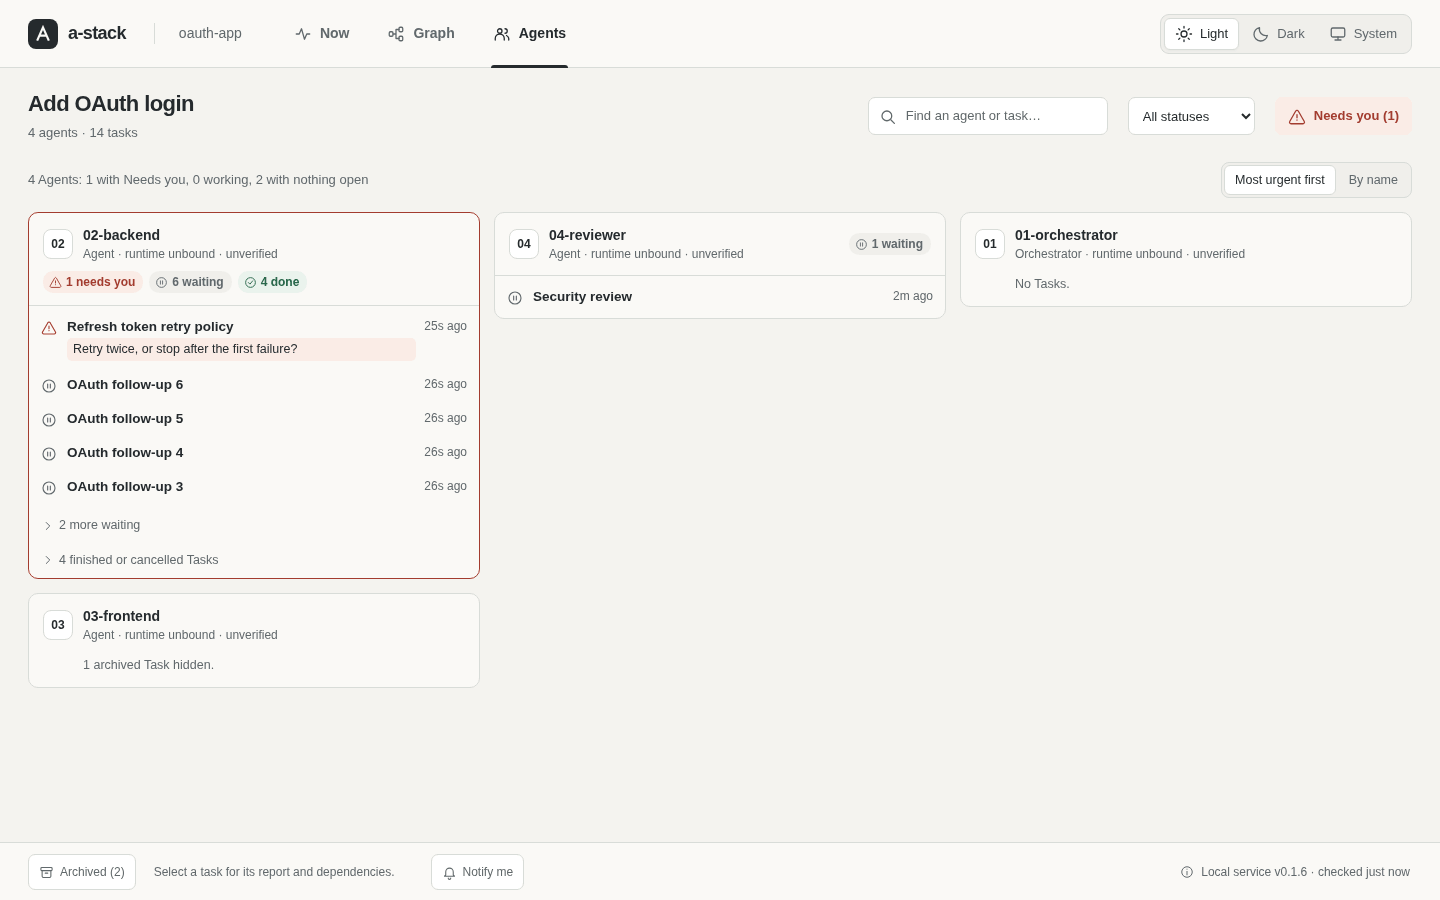
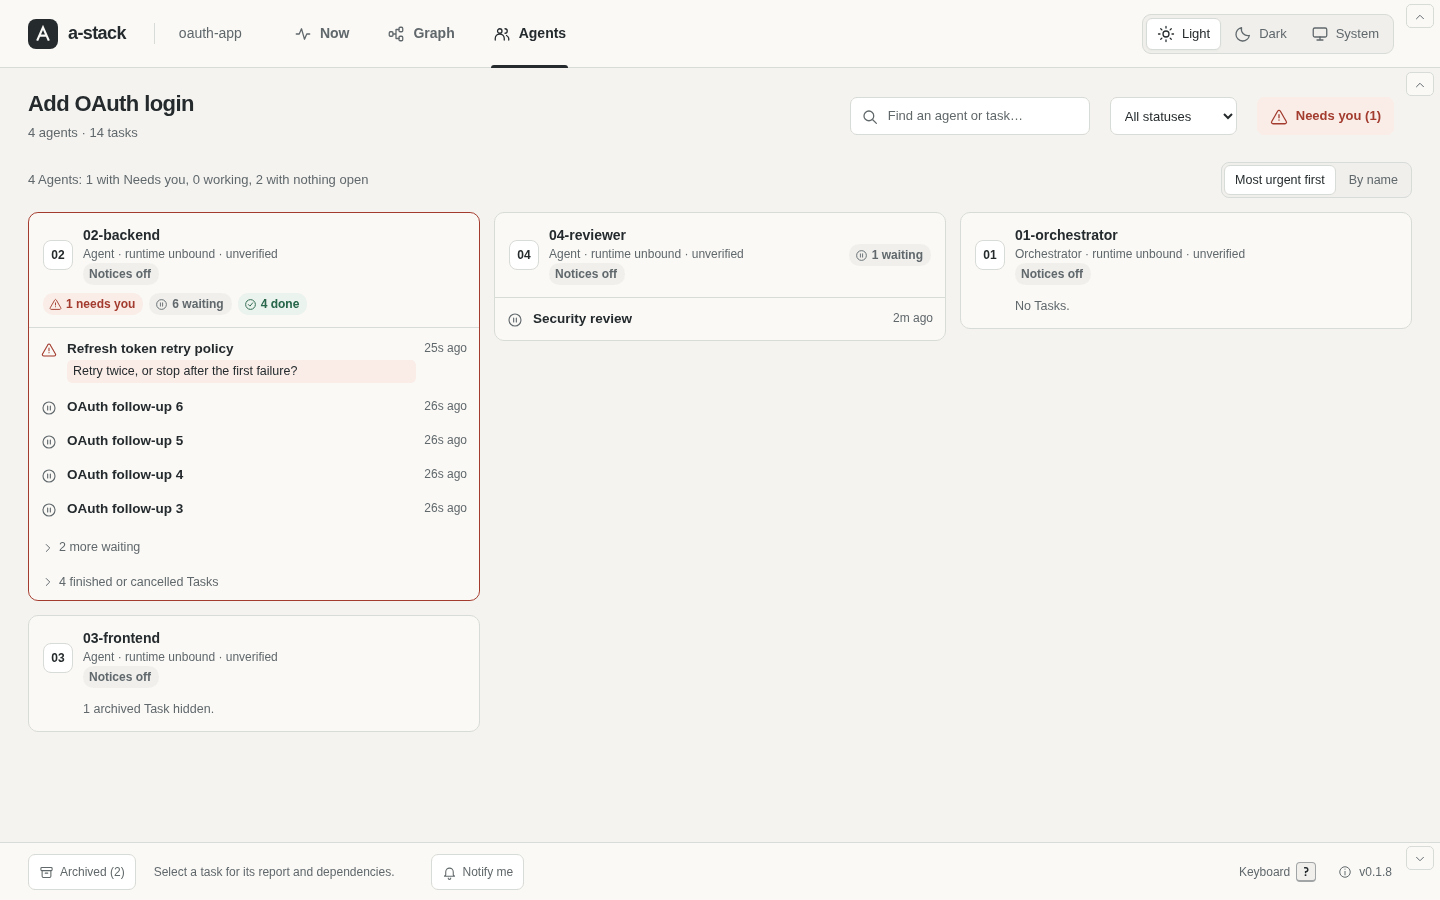
docs: record the v0.1.8 demo

diff --git a/CONTRIBUTING.md b/CONTRIBUTING.md
@@ -68,4 +68,4 @@ After a change to the browser view or the Operator commands, record the README d
 scripts/record-demo.sh
 ```
 
-The script builds a-stack and runs a short Session on a temporary service, with a temporary HOME, explicit disposable state and private hook settings/cache. It records one story: a real terminal (`scripts/demo-terminal.py`) and the browser view (agent-browser) at the same time. Terminal helpers shorten mutation receipts and show only the first line of a Stop guard’s reason; the hook events, replies and Task changes are real. `scripts/demo-overlay.js` draws the outlines and callouts and zooms in, in the recording browser only. Then it cuts the scenes into GIFs, each scene under its caption. To keep the GIFs small at the same pace, it drops frames that do not change and shows the one before longer, keeps every third frame while the view zooms or scrolls, and uses 64 colors and gifsicle's `-O3 --lossy=40`. The footer of the view shows the latest release tag (`git describe --tags --abbrev=0`), not the development build. The scene list at the top of the script names the GIF, the tab, the terminal and the caption of each scene. To try a change without touching the images, set `DEMO_OUT` to another folder. In `docs/images` it writes `demo.gif` (the README tour), `demo-graph.gif`, `demo-archive.gif` and `demo-agents.gif` (the clips in the browser view guide), the stills `graph-light.png`, `graph-dark.png`, `graph-overview.png` (minimap and semantic zoom), `now-light.png`, `now-dark.png`, `mail-light.png`, `mail-dark.png` and `agents.png`, and `picker.png`. It deletes the temporary state when it ends. It needs Go, Python 3, ffmpeg, agent-browser, ImageMagick (`magick`), gifsicle and curl. It downloads a pinned release of [agg](https://github.com/asciinema/agg) into `.tmp/` and checks its SHA-256. It does not need Docker.
+The script builds a-stack and runs a short Session on a temporary service, with a temporary HOME, explicit disposable state and private hook settings/cache. It records one story: a real terminal (`scripts/demo-terminal.py`) and the browser view (agent-browser) at the same time. Terminal helpers shorten mutation receipts and show only the first line of a Stop guard’s reason; the hook events, replies and Task changes are real. `scripts/demo-overlay.js` draws the outlines and callouts and zooms in, in the recording browser only. Then it cuts the scenes into GIFs, each scene under its caption. To keep the GIFs small at the same pace, it drops frames that do not change and shows the one before longer, keeps every third frame while the view zooms or scrolls, and uses 64 colors and gifsicle's `-O3 --lossy=40`. The footer of the view shows the latest release tag (`git describe --tags --abbrev=0`), not the development build. Before the next tag exists, override it with `DEMO_VERSION=v0.1.8 scripts/record-demo.sh`. The scene list at the top of the script names the GIF, the tab, the terminal and the caption of each scene. To try a change without touching the images, set `DEMO_OUT` to another folder. In `docs/images` it writes `demo.gif` (the README tour), `demo-graph.gif`, `demo-archive.gif` and `demo-agents.gif` (the clips in the browser view guide), the stills `graph-light.png`, `graph-dark.png`, `graph-overview.png` (minimap and semantic zoom), `now-light.png`, `now-dark.png`, `mail-light.png`, `mail-dark.png` and `agents.png`, and `picker.png`. It deletes the temporary state when it ends. It needs Go, Python 3, ffmpeg, agent-browser, ImageMagick (`magick`), gifsicle and curl. It downloads a pinned release of [agg](https://github.com/asciinema/agg) into `.tmp/` and checks its SHA-256. It does not need Docker.

diff --git a/README.md b/README.md
@@ -15,7 +15,7 @@ Reports, Task mail and answered questions stay when an Agent compacts, crashes o
 
 Works with Claude Code, Codex, Pi and OpenCode (with hooks), [Herdr](https://herdr.dev) (optional, not on Windows) and any agent with a shell, such as Copilot CLI, Cursor CLI or Gemini CLI. Runs on Linux, macOS and Windows.
 
-![Demo in eight captioned steps, with a terminal above the browser view and an arrow on each change. 1, a-stack new creates a Session for an OAuth login and opens the Now tab. 2, the Orchestrator adds four Tasks, which wait in the Waiting column. 3, the Agents 02-backend and 03-frontend start work, and their Tasks move to Working. 4, 02-backend sends Task mail to @03-frontend, 03-frontend replies, and the Task details show both messages with the mention highlighted. 5, 02-backend asks "GitHub or Google first?", the Task moves to Needs you and the button says Needs you (1). 6, after the answer the Task is Working again. 7, a real Stop hook asks the Agent to report its work, then a mail nudge prompts it to read new Task mail. 8, a-stack -r picks another Session, which also has a question for you.](docs/images/demo.gif)
+![Demo in eight captioned steps, with a terminal above the browser view and an arrow on each change. 1, a-stack new creates a Session for an OAuth login and opens the Now tab; the Session header collapses with its arrow and opens again. 2, the Orchestrator adds four Tasks, which wait in the Waiting column. 3, the Agents 02-backend and 03-frontend start work, and their Tasks move to Working. 4, 02-backend sends Task mail to @03-frontend, 03-frontend replies, and the Task details show both messages with the mention highlighted. 5, 02-backend asks "GitHub or Google first?", the Task moves to Needs you and the button says Needs you (1). 6, after the answer the Task is Working again. 7, a real Stop hook asks the Agent to report its work, then a mail nudge prompts it to read new Task mail. 8, a-stack -r picks another Session, which also has a question for you.](docs/images/demo.gif)
 
 ## How it works
 

diff --git a/docs/browser.md b/docs/browser.md
@@ -133,7 +133,7 @@ A poll moves cards between columns in place. The selection, the focused card and
 - A minimap at the bottom right of the graph, 200×130 pixels (140×91 on a phone), shows every card as a block in its status color, with a ring around Needs you, and a box around the part you see. Click or drag on it to move the view there. It is hidden while the whole graph fits the panel. The Minimap button in the footer of the Graph tab, or `m` in the graph, turns it off or on. The button shows which, also while the graph fits, and the view remembers it in local storage. The minimap is for the pointer only: screen readers skip it, and it never takes the focus.
 - The layout runs again when Tasks or dependencies change, when the Archived toggle changes, or when a card changes size: a new title, a Task that becomes finished or cancelled or opens again, other assigned Agents, Needs you, file references, cancelled prerequisites or hidden archived prerequisites. It uses the panel size at that moment. Resizing the window alone does not move cards, and neither does a poll without changes, a new report or a change between Waiting and Working.
 
-![A short clip of the Graph tab. Curved lines connect prerequisites, and selecting a Task highlights its lines. A larger graph shows dragging the minimap, title blocks below 50% zoom, and colored blocks with a Needs you ring below 30%.](images/demo-graph.gif)
+![A short clip of the Graph tab. Curved lines connect prerequisites, and l moves the focus along a link to the next Task. A larger graph shows dragging the minimap, title blocks below 50% zoom, and colored blocks with a Needs you ring below 30%.](images/demo-graph.gif)
 
 ![A larger graph at 40% zoom. Cards become blocks with titles and status colors; the minimap shows the full graph and the visible region.](images/graph-overview.png)
 
